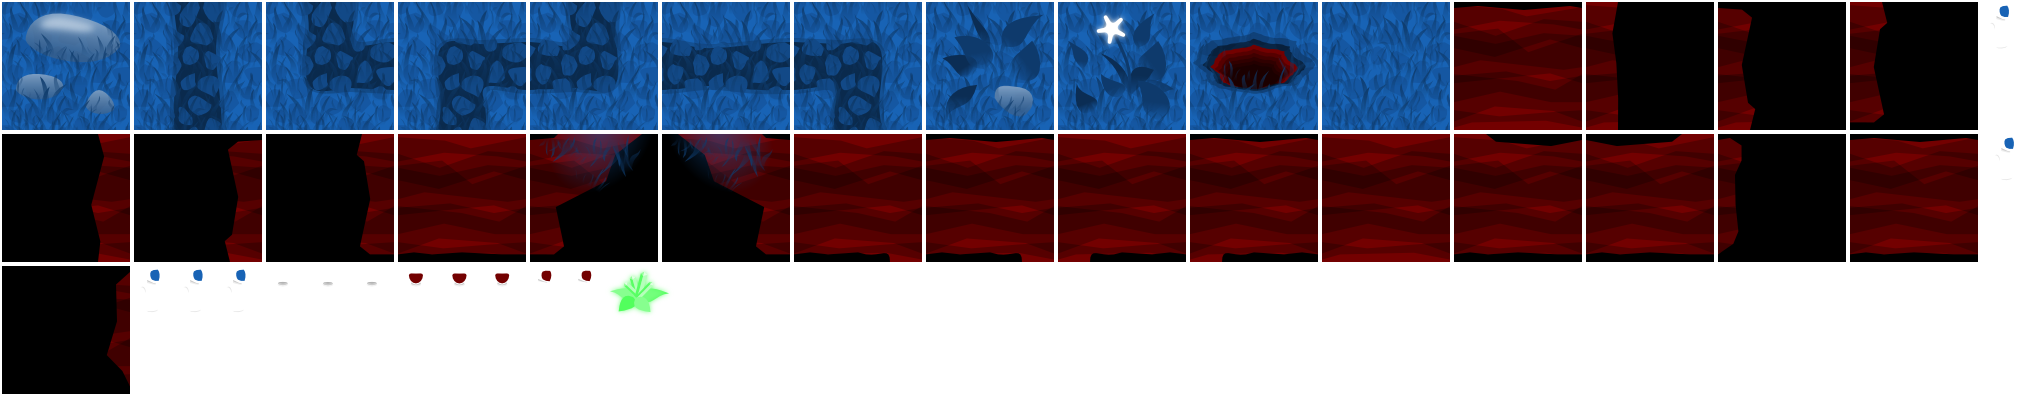
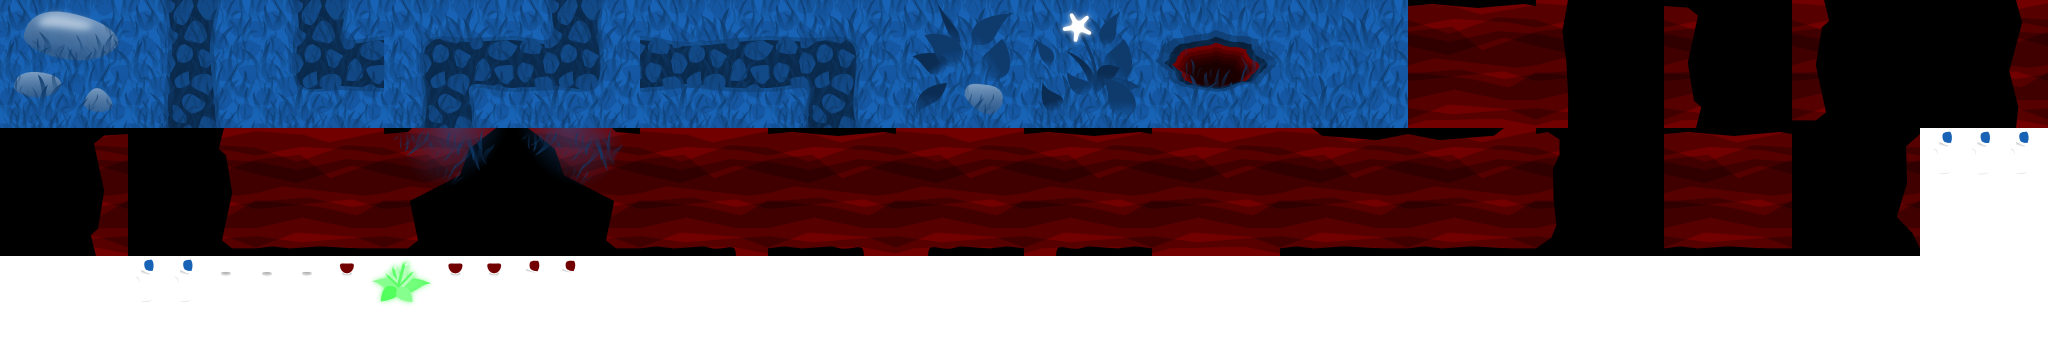
Repacked atlas with new mkatlas

diff --git a/htdocs/index.html b/htdocs/index.html
@@ -49,184 +49,184 @@ var requestAnimFrame =
 		},
 	resources = {
 		crystal:{
-			rect: {/*crystal*/x:604,y:266,w:71,h:52},
+			rect: {/*crystal*/x:367,y:256,w:69,h:52},
 		},
 		surfaceEmpty:{
-			rect: {/*surface-empty*/x:1322,y:2,w:128,h:128},
+			rect: {/*surface-empty*/x:1280,y:0,w:128,h:128},
 		},
 		surfaceStones:{
 			blocks: true,
-			rect: {/*surface-stones*/x:2,y:2,w:128,h:128},
+			rect: {/*surface-stones*/x:0,y:0,w:128,h:128},
 		},
 		surfaceFlowers:{
 			blocks: true,
-			rect: {/*surface-flowers*/x:1058,y:2,w:128,h:128},
+			rect: {/*surface-flowers*/x:1024,y:0,w:128,h:128},
 		},
 		surfaceLeaves:{
 			blocks: true,
-			rect: {/*surface-leaves*/x:926,y:2,w:128,h:128},
+			rect: {/*surface-leaves*/x:896,y:0,w:128,h:128},
 		},
 		surfaceRiverLeftRight:{
 			blocks: true,
-			rect: {/*surface-river-left-right*/x:662,y:2,w:128,h:128},
+			rect: {/*surface-river-left-right*/x:640,y:0,w:128,h:128},
 		},
 		surfaceRiverTopDown:{
 			blocks: true,
-			rect: {/*surface-river-top-down*/x:134,y:2,w:128,h:128},
+			rect: {/*surface-river-top-down*/x:128,y:0,w:128,h:128},
 		},
 		surfaceRiverLeftUp:{
 			blocks: true,
-			rect: {/*surface-river-left-up*/x:530,y:2,w:128,h:128},
+			rect: {/*surface-river-left-up*/x:512,y:0,w:128,h:128},
 		},
 		surfaceRiverLeftDown:{
 			blocks: true,
-			rect: {/*surface-river-left-down*/x:794,y:2,w:128,h:128},
+			rect: {/*surface-river-left-down*/x:768,y:0,w:128,h:128},
 		},
 		surfaceRiverRightUp:{
 			blocks: true,
-			rect: {/*surface-river-right-up*/x:266,y:2,w:128,h:128},
+			rect: {/*surface-river-right-up*/x:256,y:0,w:128,h:128},
 		},
 		surfaceRiverRightDown:{
 			blocks: true,
-			rect: {/*surface-river-right-down*/x:398,y:2,w:128,h:128},
+			rect: {/*surface-river-right-down*/x:384,y:0,w:128,h:128},
 		},
 		surfaceEntry:{
-			rect: {/*surface-entry*/x:1190,y:2,w:128,h:128},
+			rect: {/*surface-entry*/x:1152,y:0,w:128,h:128},
 		},
 		surfaceAstronautDownStand:{
-			rect: {/*surface-astronaut-down-stand*/x:396,y:266,w:40,h:84},
+			rect: {/*surface-astronaut-down-stand*/x:327,y:256,w:40,h:84},
 		},
 		surfaceAstronautDownWalk0:{
-			rect: {/*surface-astronaut-down-walk0*/x:483,y:266,w:39,h:80},
+			rect: {/*surface-astronaut-down-walk0*/x:475,y:256,w:39,h:80},
 		},
 		surfaceAstronautDownWalk1:{
-			rect: {/*surface-astronaut-down-walk1*/x:440,y:266,w:39,h:81},
+			rect: {/*surface-astronaut-down-walk1*/x:436,y:256,w:39,h:81},
 		},
 		surfaceAstronautUpStand:{
-			rect: {/*surface-astronaut-up-stand*/x:352,y:266,w:40,h:86},
+			rect: {/*surface-astronaut-up-stand*/x:287,y:256,w:40,h:86},
 		},
 		surfaceAstronautUpWalk0:{
-			rect: {/*surface-astronaut-up-walk0*/x:308,y:266,w:40,h:86},
+			rect: {/*surface-astronaut-up-walk0*/x:247,y:256,w:40,h:86},
 		},
 		surfaceAstronautUpWalk1:{
-			rect: {/*surface-astronaut-up-walk1*/x:263,y:266,w:41,h:86},
+			rect: {/*surface-astronaut-up-walk1*/x:206,y:256,w:41,h:86},
 		},
 		surfaceAstronautRightWalk0:{
-			rect: {/*surface-astronaut-right-walk0*/x:526,y:266,w:37,h:76},
+			rect: {/*surface-astronaut-right-walk0*/x:514,y:256,w:37,h:76},
 		},
 		surfaceAstronautRightWalk1:{
-			rect: {/*surface-astronaut-right-walk1*/x:567,y:266,w:33,h:74},
+			rect: {/*surface-astronaut-right-walk1*/x:551,y:256,w:33,h:74},
 		},
 		surfaceAstronautLeftWalk0:{
 			mirror: true,
-			rect: {/*surface-astronaut-right-walk0*/x:526,y:266,w:37,h:76},
+			rect: {/*surface-astronaut-right-walk0*/x:514,y:256,w:37,h:76},
 		},
 		surfaceAstronautLeftWalk1:{
 			mirror: true,
-			rect: {/*surface-astronaut-right-walk1*/x:567,y:266,w:33,h:74},
+			rect: {/*surface-astronaut-right-walk1*/x:551,y:256,w:33,h:74},
 		},
 		beneathAstronautRightStand:{
-			rect: {/*beneath-astronaut-right-stand*/x:220,y:266,w:39,h:92},
+			rect: {/*beneath-astronaut-right-stand*/x:167,y:256,w:39,h:92},
 		},
 		beneathAstronautRightWalk0:{
-			rect: {/*beneath-astronaut-right-walk0*/x:1982,y:2,w:40,h:94},
+			rect: {/*beneath-astronaut-right-walk0*/x:1963,y:128,w:40,h:94},
 		},
 		beneathAstronautRightWalk1:{
-			rect: {/*beneath-astronaut-right-walk1*/x:1982,y:134,w:43,h:92},
+			rect: {/*beneath-astronaut-right-walk1*/x:1920,y:128,w:43,h:92},
 		},
 		beneathAstronautRightWalk2:{
-			rect: {/*beneath-astronaut-right-walk2*/x:177,y:266,w:39,h:92},
+			rect: {/*beneath-astronaut-right-walk2*/x:128,y:256,w:39,h:92},
 		},
 		beneathAstronautRightWalk3:{
-			rect: {/*beneath-astronaut-right-walk3*/x:134,y:266,w:39,h:92},
+			rect: {/*beneath-astronaut-right-walk3*/x:2003,y:128,w:39,h:92},
 		},
 		beneathAstronautLeftStand:{
 			mirror: true,
-			rect: {/*beneath-astronaut-right-stand*/x:220,y:266,w:39,h:92},
+			rect: {/*beneath-astronaut-right-stand*/x:167,y:256,w:39,h:92},
 		},
 		beneathAstronautLeftWalk0:{
 			mirror: true,
-			rect: {/*beneath-astronaut-right-walk0*/x:1982,y:2,w:40,h:94},
+			rect: {/*beneath-astronaut-right-walk0*/x:1963,y:128,w:40,h:94},
 		},
 		beneathAstronautLeftWalk1:{
 			mirror: true,
-			rect: {/*beneath-astronaut-right-walk1*/x:1982,y:134,w:43,h:92},
+			rect: {/*beneath-astronaut-right-walk1*/x:1920,y:128,w:43,h:92},
 		},
 		beneathAstronautLeftWalk2:{
 			mirror: true,
-			rect: {/*beneath-astronaut-right-walk2*/x:177,y:266,w:39,h:92},
+			rect: {/*beneath-astronaut-right-walk2*/x:128,y:256,w:39,h:92},
 		},
 		beneathAstronautLeftWalk3:{
 			mirror: true,
-			rect: {/*beneath-astronaut-right-walk3*/x:134,y:266,w:39,h:92},
+			rect: {/*beneath-astronaut-right-walk3*/x:2003,y:128,w:39,h:92},
 		},
 		beneathEntry:{
-			rect: {/*beneath-entry*/x:662,y:134,w:128,h:128},
+			rect: {/*beneath-entry*/x:512,y:128,w:128,h:128},
 		},
 		beneathExit:{
-			rect: {/*beneath-exit*/x:530,y:134,w:128,h:128},
+			rect: {/*beneath-exit*/x:384,y:128,w:128,h:128},
 		},
 		beneathCorridor:{
-			rect: {/*beneath-corridor*/x:1322,y:134,w:128,h:128},
+			rect: {/*beneath-corridor*/x:1152,y:128,w:128,h:128},
 		},
 		beneathCorridorTopLeft:{
-			rect: {/*beneath-corridor-top-left*/x:1586,y:134,w:128,h:128},
+			rect: {/*beneath-corridor-top-left*/x:1408,y:128,w:128,h:128},
 		},
 		beneathCorridorTopRight:{
-			rect: {/*beneath-corridor-top-right*/x:1454,y:134,w:128,h:128},
+			rect: {/*beneath-corridor-top-right*/x:1280,y:128,w:128,h:128},
 		},
 		beneathCorridorLeftRight:{
-			rect: {/*beneath-corridor-left-right*/x:1850,y:134,w:128,h:128},
+			rect: {/*beneath-corridor-left-right*/x:1664,y:128,w:128,h:128},
 		},
 		beneathCorridorLeftEnd:{
 			blocks: true,
-			rect: {/*beneath-corridor-left-end*/x:2,y:266,w:128,h:128},
+			rect: {/*beneath-corridor-left-end*/x:1792,y:128,w:128,h:128},
 		},
 		beneathCorridorRightEnd:{
 			blocks: true,
-			rect: {/*beneath-corridor-right-end*/x:1718,y:134,w:128,h:128},
+			rect: {/*beneath-corridor-right-end*/x:1536,y:128,w:128,h:128},
 		},
 		beneathDropLeft:{
-			rect: {/*beneath-drop-left*/x:1058,y:134,w:128,h:128},
+			rect: {/*beneath-drop-left*/x:896,y:128,w:128,h:128},
 		},
 		beneathDropLeftWallTop:{
-			rect: {/*beneath-drop-left-wall-top*/x:1190,y:134,w:128,h:128},
+			rect: {/*beneath-drop-left-wall-top*/x:1024,y:128,w:128,h:128},
 		},
 		beneathDropRight:{
-			rect: {/*beneath-drop-right*/x:794,y:134,w:128,h:128},
+			rect: {/*beneath-drop-right*/x:640,y:128,w:128,h:128},
 		},
 		beneathDropRightWallTop:{
-			rect: {/*beneath-drop-right-wall-top*/x:926,y:134,w:128,h:128},
+			rect: {/*beneath-drop-right-wall-top*/x:768,y:128,w:128,h:128},
 		},
 		beneathWallTop:{
-			rect: {/*beneath-wall-top*/x:1454,y:2,w:128,h:128},
+			rect: {/*beneath-wall-top*/x:1408,y:0,w:128,h:128},
 		},
 		beneathWallBottom:{
-			rect: {/*beneath-wall-bottom*/x:398,y:134,w:128,h:128},
+			rect: {/*beneath-wall-bottom*/x:256,y:128,w:128,h:128},
 		},
 		beneathWallLeft:{
 			blocks: true,
-			rect: {/*beneath-wall-left*/x:2,y:134,w:128,h:128},
+			rect: {/*beneath-wall-left*/x:1920,y:0,w:128,h:128},
 		},
 		beneathWallLeftTop:{
 			blocks: true,
-			rect: {/*beneath-wall-left-top*/x:134,y:134,w:128,h:128},
+			rect: {/*beneath-wall-left-top*/x:0,y:128,w:128,h:128},
 		},
 		beneathWallLeftBottom:{
 			blocks: true,
-			rect: {/*beneath-wall-left-bottom*/x:266,y:134,w:128,h:128},
+			rect: {/*beneath-wall-left-bottom*/x:128,y:128,w:128,h:128},
 		},
 		beneathWallRight:{
 			blocks: true,
-			rect: {/*beneath-wall-right*/x:1586,y:2,w:128,h:128},
+			rect: {/*beneath-wall-right*/x:1536,y:0,w:128,h:128},
 		},
 		beneathWallRightTop:{
 			blocks: true,
-			rect: {/*beneath-wall-right-top*/x:1718,y:2,w:128,h:128},
+			rect: {/*beneath-wall-right-top*/x:1664,y:0,w:128,h:128},
 		},
 		beneathWallRightBottom:{
 			blocks: true,
-			rect: {/*beneath-wall-right-bottom*/x:1850,y:2,w:128,h:128},
+			rect: {/*beneath-wall-right-bottom*/x:1792,y:0,w:128,h:128},
 		} },
 	surfaceSymbols = {
 		" ":"surfaceEmpty",
